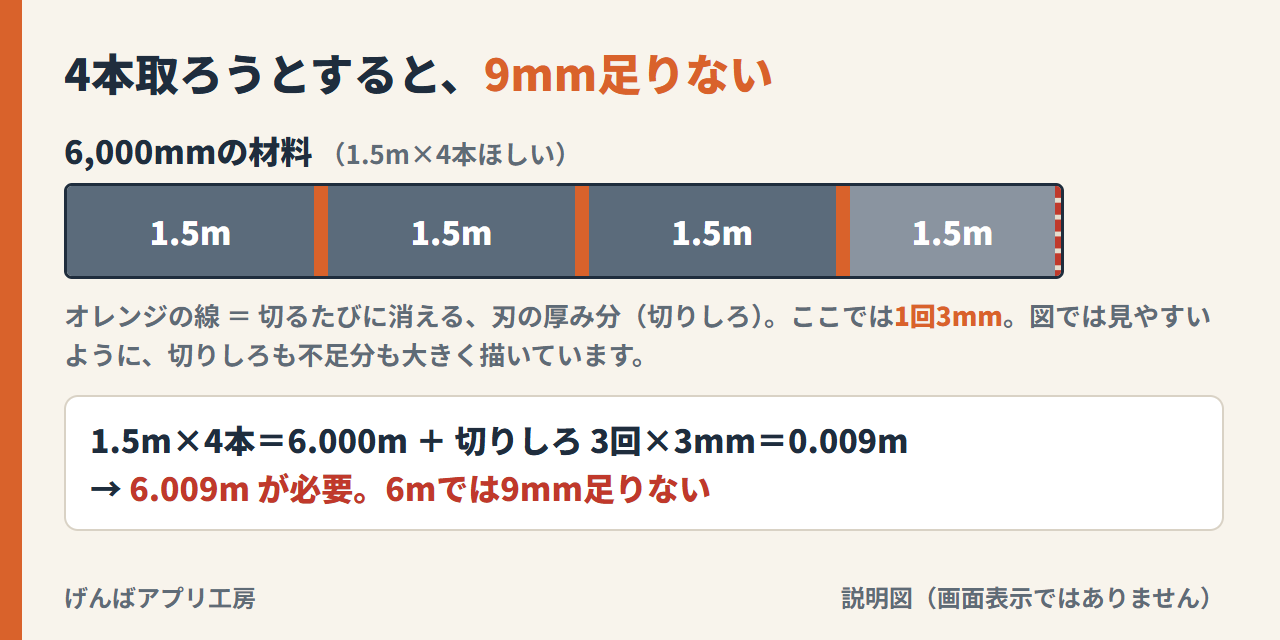
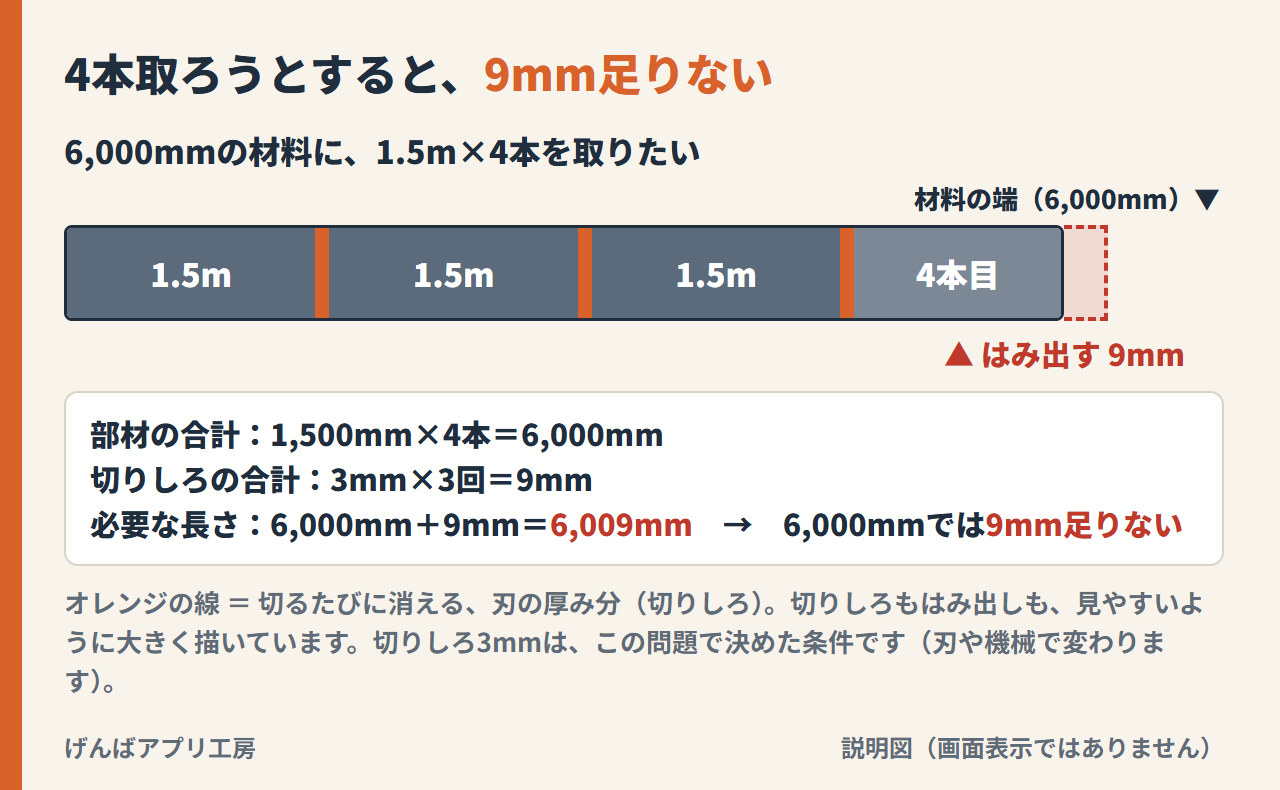
note article on kerf: edited text and revised figures

diff --git a/note-article-kirishiro-20261009.md b/note-article-kirishiro-20261009.md
@@ -1,0 +1,52 @@
+# 切りしろって、何？ 6mから1.5mを4本取れない理由
+
+【ヘッダー画像：00-header.png】
+
+## クイズで省いてしまった説明
+
+10月5日にThreadsで、こんなクイズを出しました。「6mの材料から、1.5mの部材は何本取れる？ 切りしろは1回3mm」。翌6日に、答えは3本と投稿しました。
+
+その後、「幅はいくつ？」「分かるように説明してほしい」という声をいただきました。材料をどう切る話なのか、説明が足りませんでした。今回は、図を使って順番に見ていきます。
+
+考えるのは、一本の長い材料を、長さ方向に切り分ける場合です。板を幅方向にも切り出す話ではありません。幅の寸法は今回の計算に使いません。
+
+## 切る場所にも、長さを使う
+
+紙に線を引くだけなら、その線で紙の長さは減りません。でも、のこぎりなどで材料を切ると、刃が通った場所の材料が削られます。その分を見込むのが「切りしろ」です（刃幅とも呼びます）。
+
+今回の条件では、切断1回につき、材料の長さを3mm使います。切った後の部材にはならない部分です。3回切ると、合計9mm。小さな数字ですが、必要な長さを足すときには省けません。
+
+このあとの図では、オレンジ色の線が切りしろです。見やすくするため太く描いてあり、実際の比率を表した図ではありません。
+
+## 4本だと9mm足りない。3本なら？
+
+まずは、1.5mの部材を4本取る場合です。単位をmmにそろえると、部材だけで1,500mm×4本＝6,000mmになります。
+
+ここに、部材と部材の間を分ける3回の切断が必要です。切りしろは3mm×3回＝9mmなので、必要な材料の長さは6,009mm。元の6,000mmでは9mm足りません。
+
+【図：4本取ろうとすると9mm足りない／01-fig-4pieces.png】
+
+では、1,500mmを3本切り出すとどうなるでしょうか。
+
+部材の合計は4,500mm。3本を順に切り離して残りを残すため、この場合も切断は3回です。
+
+6,000mm−4,500mm−9mm＝1,491mm。
+
+これが残りの長さです。残った部分を4本目にしたくても、1,500mmには9mm届きません。長さがそろった部材として取れるのは3本、という答えになります。
+
+【図：3本なら1,491mm残る／02-fig-3pieces.png】
+
+このクイズでは、端面を整えるための追加の切断や、加工の余裕は考えていません。切りしろ3mmも、この問題で決めた条件です。
+
+## 残りを見積もるときにも
+
+切りしろを入れずに計算すると、3本を取った残りは1,500mmに見えます。実際には、今回の条件だと1,491mm。この差は、残った材料を次に使えるか考えるときにも関わります。
+
+実作業では、使う機器や刃、端面の状態などに合わせた確認が必要です。この例の3mmを、そのままどの作業にも当てはめることはできません。
+
+開発中の材料取りアプリ「キリドリ」でも、「刃幅（切りしろ）」を入力して計算します。今回はアプリの画面ではなく、クイズの条件を図にした説明です。
+
+みなさんは、切りしろ込みで計算した残りの長さを、どこに記録していますか？
+
+---
+タグ案：切りしろ・材料取り・鉄骨・建設業・現場あるある
